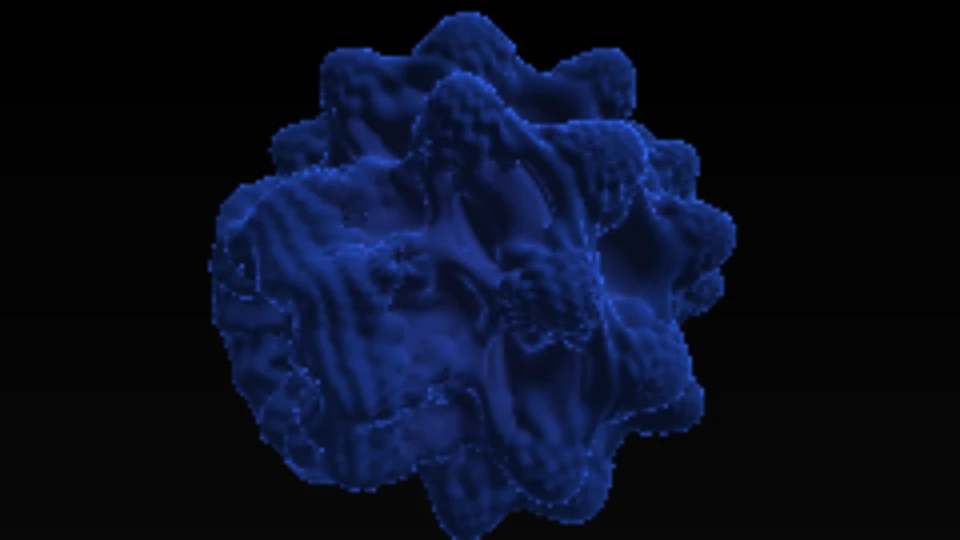
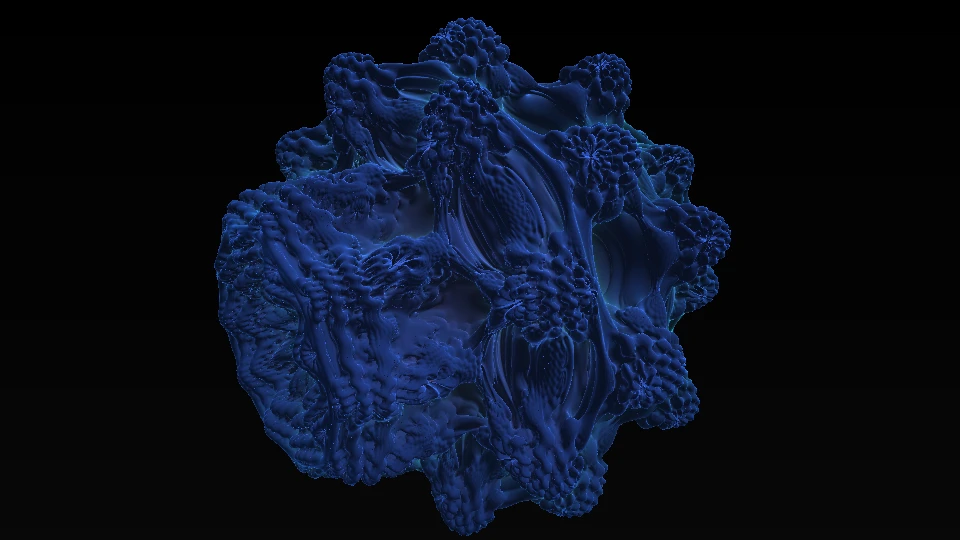
feat(previews): full-res render and improved fractal framing

Changed region(s): [[0.2188, 0.0, 0.7812, 1.0]]

diff --git a/scripts/generate-previews.ts b/scripts/generate-previews.ts
@@ -5,6 +5,8 @@ import { execSync, spawn } from 'node:child_process';
 import type { ChildProcess } from 'node:child_process';
 import { mkdirSync, unlinkSync } from 'node:fs';
 import { resolve } from 'node:path';
+import type { ColorMode } from '../src/engine/colorModes';
+import { COLOR_MODES } from '../src/engine/colorModes';
 import type { FractalSpec } from './preview-fractals';
 import { FRACTALS } from './preview-fractals';
 
@@ -17,21 +19,30 @@ const PORT = 4173;
 
 interface Options {
   fractals: string[];
-  color: string;
+  color: ColorMode;
   preset: keyof typeof PRESETS;
   outDir: string;
+}
+
+function isColorMode(value: string): value is ColorMode {
+  return (COLOR_MODES as ReadonlyArray<string>).includes(value);
 }
 
 function parseArgs(): Options {
   const args = process.argv.slice(2);
   const fractals: string[] = [];
-  let color = 'glow';
+  let color: ColorMode = 'glow';
   let preset: keyof typeof PRESETS = 'thumbnail';
 
   for (let i = 0; i < args.length; i++) {
     const arg = args[i]!;
     if (arg === '--color' && args[i + 1] != null) {
-      color = args[++i]!;
+      const next = args[++i]!;
+      if (!isColorMode(next)) {
+        console.error(`Unknown color "${next}". Available: ${COLOR_MODES.join(', ')}`);
+        process.exit(1);
+      }
+      color = next;
     } else if (arg === '--highres') {
       preset = 'highres';
     } else if (arg === '--help') {
@@ -49,7 +60,7 @@ Examples:
   pnpm run generate-previews mandelbulb --highres
 
 Available fractals: ${FRACTALS.map((f) => f.type).join(', ')}
-Available colors: glow, distance, orbit_trap, iteration, ao, normal, curvature, stripe, fresnel, depth, triplanar, temperature, chromatic`);
+Available colors: ${COLOR_MODES.join(', ')}`);
       process.exit(0);
     } else if (!arg.startsWith('--')) {
       fractals.push(arg);
@@ -108,9 +119,9 @@ async function captureFractal(
   preset: (typeof PRESETS)[keyof typeof PRESETS],
 ): Promise<void> {
   const { width, height, wait } = preset;
-  const page = await browser.newPage({ viewport: { width, height } });
+  const page = await browser.newPage({ viewport: { width, height }, ignoreHTTPSErrors: true });
   const params = buildFractalParams(fractal, color);
-  await page.goto(`http://localhost:${PORT}/Fractr/?${params.toString()}`);
+  await page.goto(`https://localhost:${PORT}/Fractr/?${params.toString()}`);
   await page.waitForTimeout(wait);
 
   const canvas = page.locator('canvas');

diff --git a/scripts/preview-fractals.ts b/scripts/preview-fractals.ts
@@ -57,7 +57,17 @@ export const FRACTALS: ReadonlyArray<FractalSpec> = [
     yaw: -2.35,
     pitch: -0.35,
   },
-  { type: 'kleinian', power: 0, iter: 6, bail: 100, x: 2, y: 1, z: 3, yaw: -2.0, pitch: -0.2 },
+  {
+    type: 'kleinian',
+    power: 0,
+    iter: 3,
+    bail: 100,
+    x: 5.0,
+    y: 2.8,
+    z: 5.0,
+    yaw: -2.35,
+    pitch: -0.3,
+  },
   {
     type: 'koch3d',
     power: 0,
@@ -72,13 +82,13 @@ export const FRACTALS: ReadonlyArray<FractalSpec> = [
   {
     type: 'apollonian',
     power: 0,
-    iter: 8,
+    iter: 14,
     bail: 100,
-    x: 2.5,
-    y: 2.0,
-    z: 2.5,
+    x: 1.2,
+    y: 1.2,
+    z: 1.2,
     yaw: -2.35,
-    pitch: -0.4,
+    pitch: -0.6,
   },
   {
     type: 'juliabulb',
@@ -94,13 +104,13 @@ export const FRACTALS: ReadonlyArray<FractalSpec> = [
   {
     type: 'octahedron',
     power: 0,
-    iter: 8,
+    iter: 10,
     bail: 100,
     x: 3.0,
-    y: 2.0,
+    y: 1.8,
     z: 3.0,
     yaw: -2.35,
-    pitch: -0.35,
+    pitch: -0.38,
   },
   {
     type: 'cantordust',
@@ -151,22 +161,22 @@ export const FRACTALS: ReadonlyArray<FractalSpec> = [
     power: -1.5,
     iter: 15,
     bail: 100,
-    x: 4.0,
-    y: 2.5,
-    z: 4.0,
+    x: 3.3,
+    y: 1.5,
+    z: 3.3,
     yaw: -2.35,
-    pitch: -0.3,
+    pitch: -0.2,
   },
   {
     type: 'spudsville',
     power: 4,
     iter: 16,
     bail: 50,
-    x: 2.0,
-    y: 1.5,
-    z: 3.0,
+    x: 1.5,
+    y: 0.9,
+    z: 1.5,
     yaw: -2.35,
-    pitch: -0.3,
+    pitch: -0.35,
   },
   {
     type: 'bristorbrot',
@@ -190,5 +200,15 @@ export const FRACTALS: ReadonlyArray<FractalSpec> = [
     yaw: -2.35,
     pitch: -0.35,
   },
-  { type: 'gyroid', power: 5, iter: 2, bail: 100, x: 0, y: 0, z: 1.5, yaw: -1.57, pitch: 0 },
+  {
+    type: 'gyroid',
+    power: 3,
+    iter: 1,
+    bail: 100,
+    x: 3.2,
+    y: 2.2,
+    z: 3.6,
+    yaw: -2.35,
+    pitch: -0.3,
+  },
 ];

diff --git a/src/composables/useRendererLifecycle.ts b/src/composables/useRendererLifecycle.ts
@@ -15,7 +15,11 @@ import type { UsePointerLockReturn } from './usePointerLock';
 import type { UseSceneStateReturn } from './useSceneState';
 import type { UseURLStateReturn } from './useURLState';
 
-/** Canvas resolution scale applied outside of active gameplay. */
+/**
+ * Canvas resolution scale applied to the blurred menu backdrop (title, select,
+ * pause, settings, saves). Not applied in URL `preview=1` screenshot mode —
+ * that path renders full-res with no blur.
+ */
 const PREVIEW_RESOLUTION_SCALE = 0.25;
 
 export interface UseRendererLifecycleOptions {
@@ -129,8 +133,9 @@ function onExitPlaying(
   applyCanvasResolution: (scale: number) => void,
 ): void {
   options.gameLoop.stop();
+  const backdropScale = options.urlState.previewMode ? 1 : PREVIEW_RESOLUTION_SCALE;
   if (mode === 'title' || mode === 'select') {
-    applyCanvasResolution(PREVIEW_RESOLUTION_SCALE);
+    applyCanvasResolution(backdropScale);
     options.previewLoop.start();
     window.history.replaceState({}, '', window.location.pathname);
   } else {
@@ -138,7 +143,7 @@ function onExitPlaying(
     // Keep current resolution when pausing from gameplay.
     const fromGame = oldMode === 'playing' || oldMode === 'paused';
     if (!fromGame) {
-      applyCanvasResolution(PREVIEW_RESOLUTION_SCALE);
+      applyCanvasResolution(backdropScale);
     }
     options.previewLoop.start();
   }
@@ -183,7 +188,8 @@ export function useRendererLifecycle(
   function onResize(width: number, height: number): void {
     displayWidth = width;
     displayHeight = height;
-    const scale = appState.mode === 'playing' ? 1 : PREVIEW_RESOLUTION_SCALE;
+    const scale =
+      appState.mode === 'playing' || options.urlState.previewMode ? 1 : PREVIEW_RESOLUTION_SCALE;
     applyCanvasResolution(scale);
   }
 
